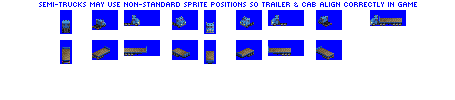
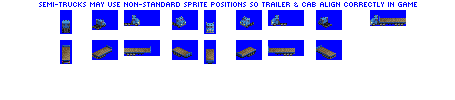
Change: improved Towerhouse flatbed truck (7/8 trailer)

diff --git a/src/vehicles/towerhouse.py b/src/vehicles/towerhouse.py
@@ -19,7 +19,7 @@ consist.add_unit(FlatBedHauler(consist = consist,
 consist.add_unit(FlatBedHauler(consist = consist,
                         weight = 5,
                         capacity = 40,
-                        vehicle_length = 6,
+                        vehicle_length = 7,
                         spriterow_num = 1))
 
 consist.add_model_variant(intro_date=0,
